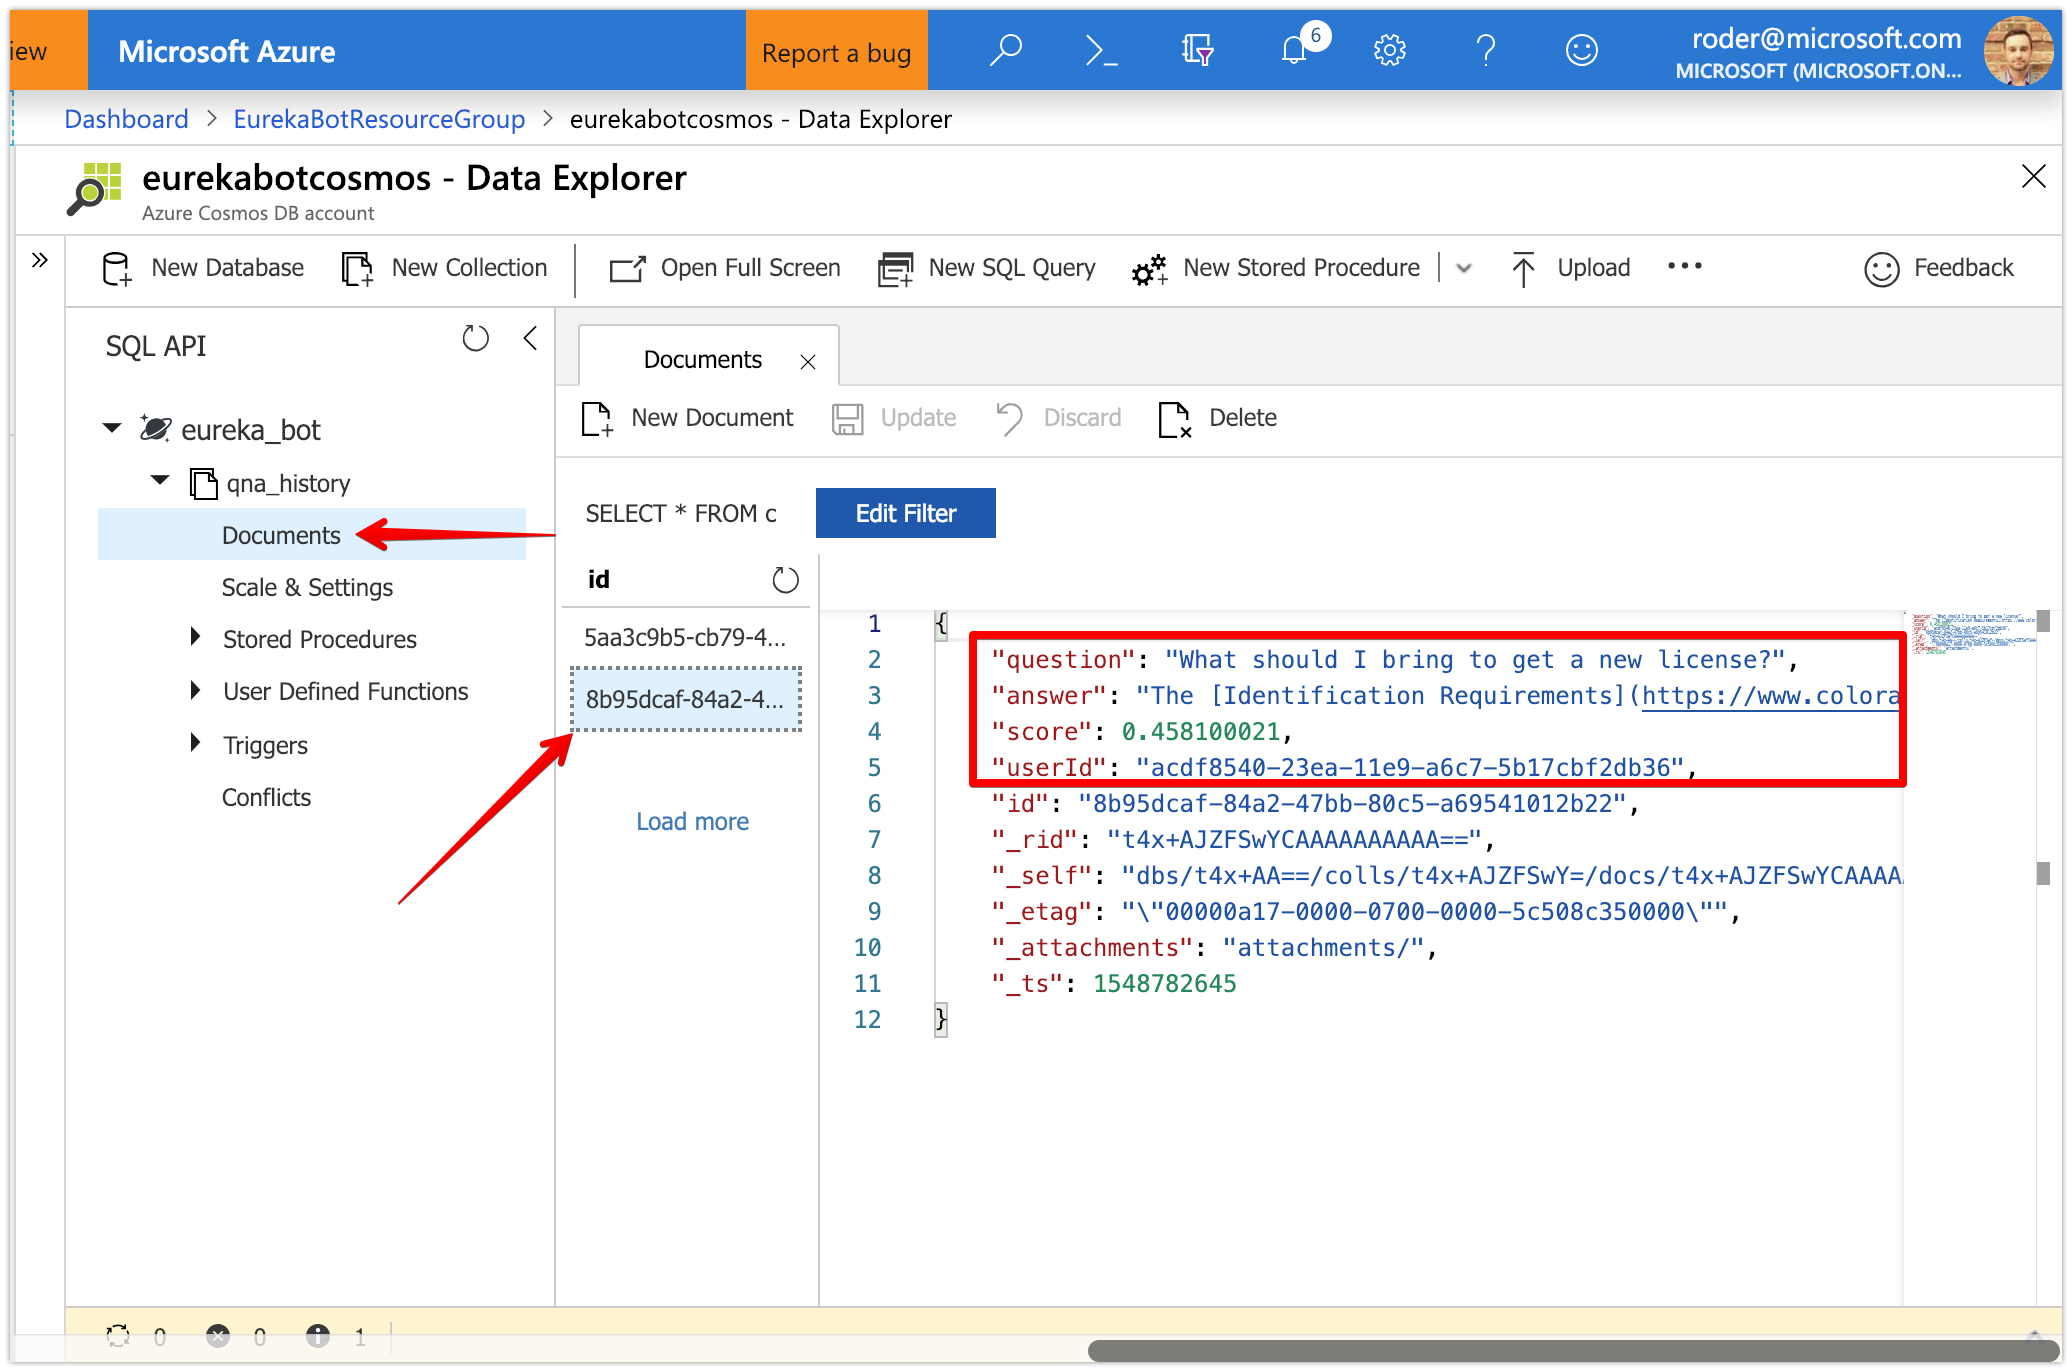
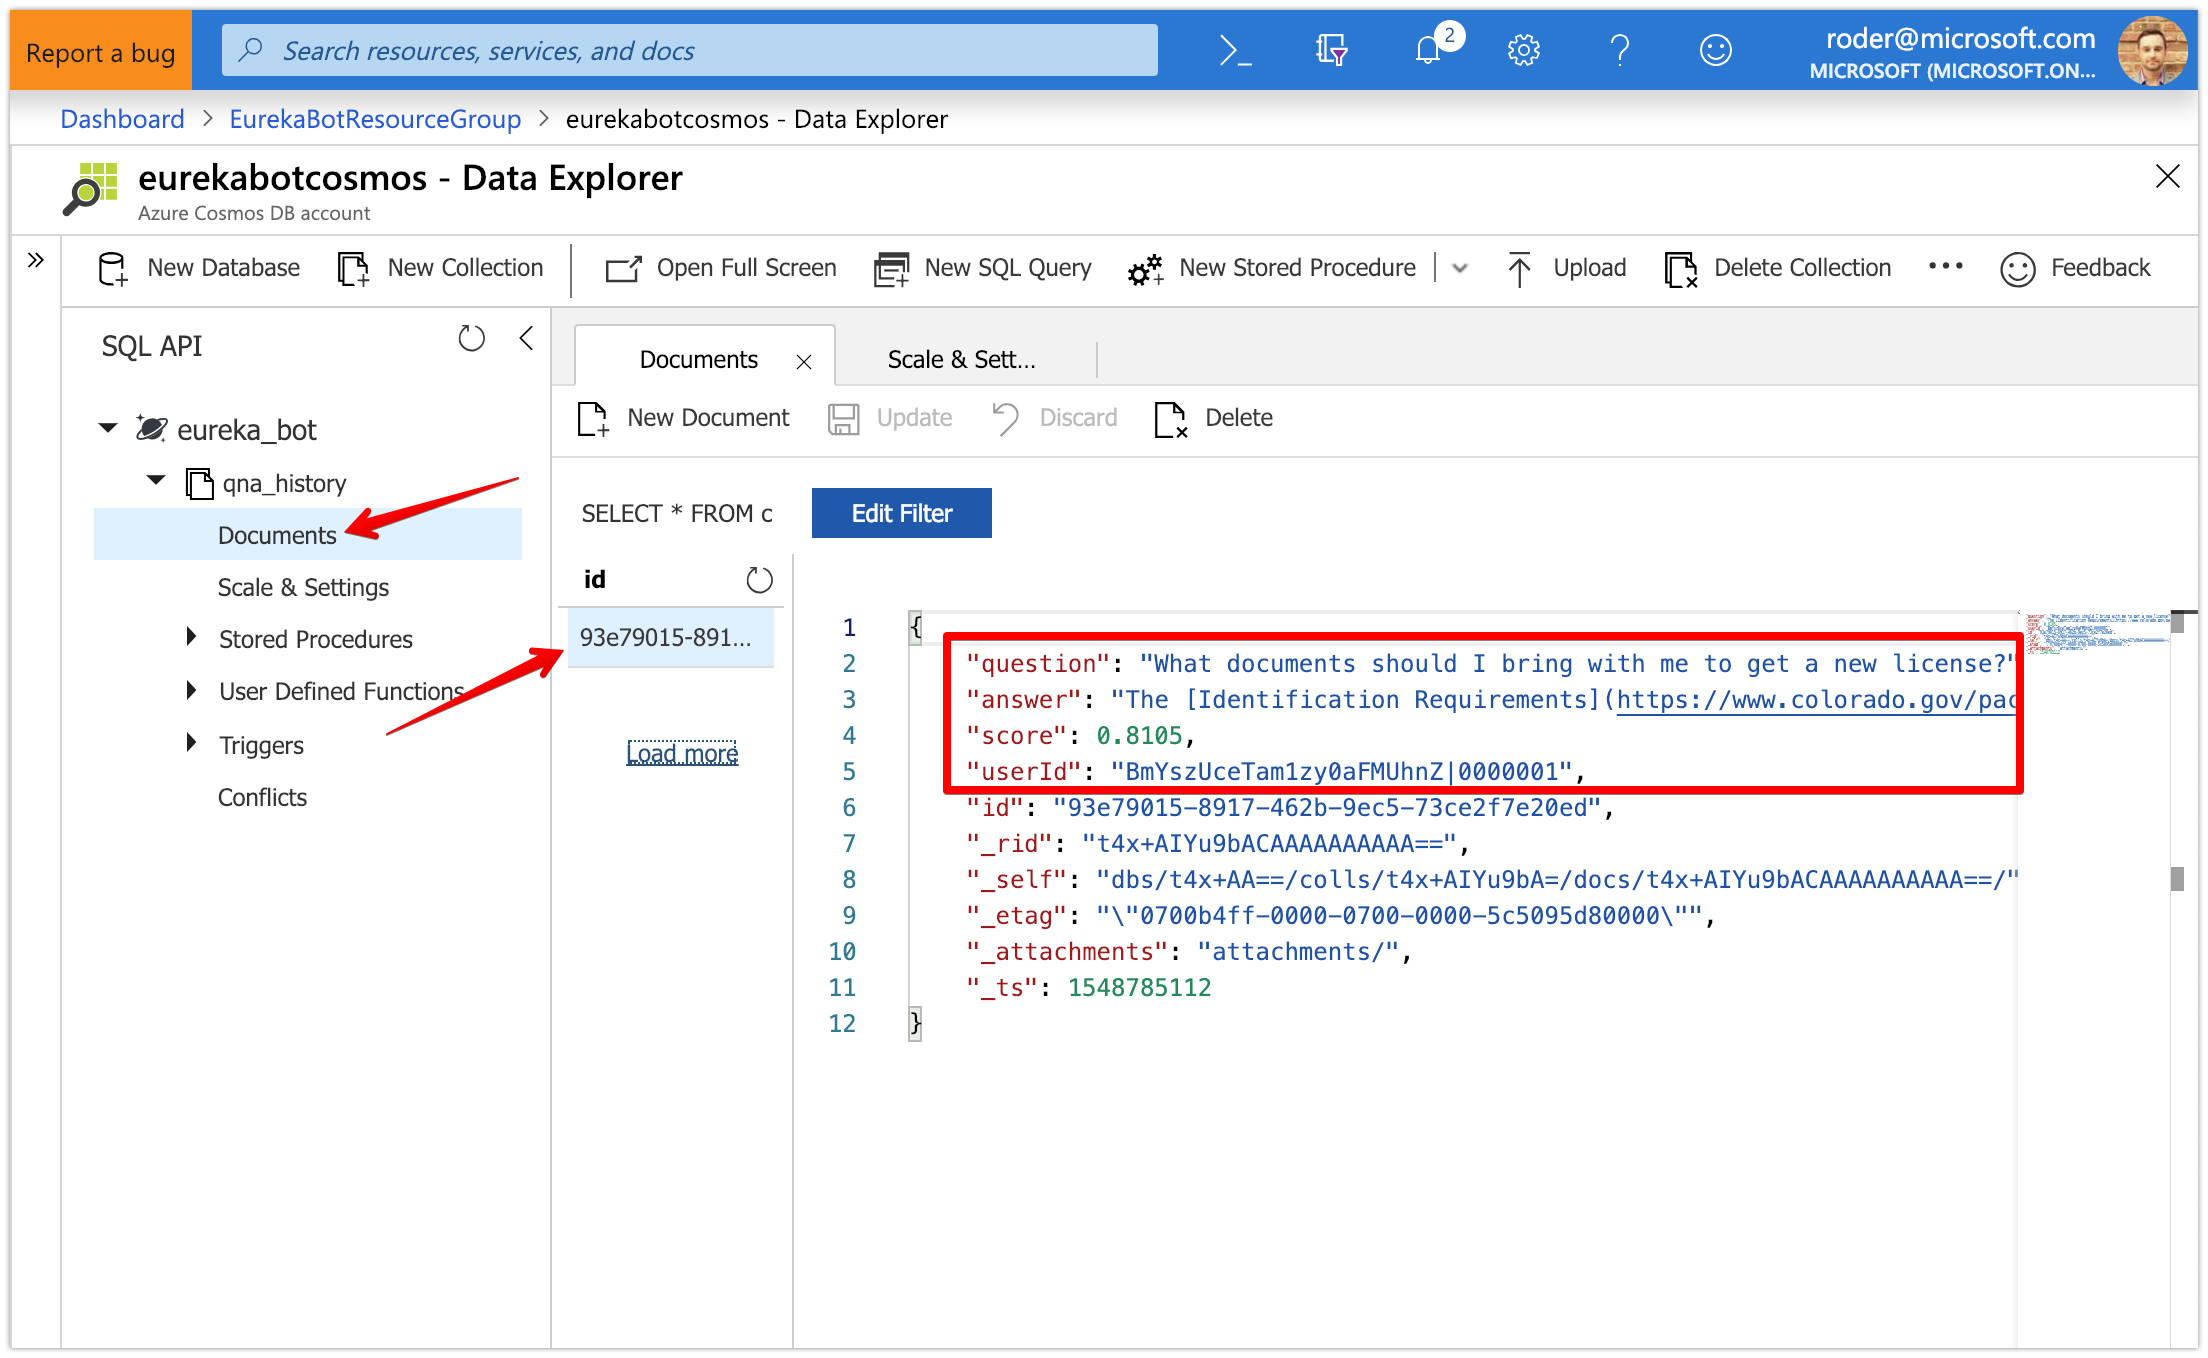
guide updates

diff --git a/guides/conversation_logger.md b/guides/conversation_logger.md
@@ -3,7 +3,7 @@
 ### This guide will help you get going with sending the user a greeting card. You will also learn how to integrate custom middleware to log conversations to a Cosmos database.
 
 When you've completed this tutorial, you should expect to see this:
-<br/><img src="../screens/new_qna_maker_serviwce.jpg" /><br/><br/>
+<br/><img src="../screens/cosmos_data_explorer_confirm_save.jpg" /><br/><br/>
 
 ### What is Cosmos DB?
 
@@ -13,7 +13,39 @@ Azure Cosmos DB provides native support for NoSQL and OSS APIs including MongoDB
 
 <br />
 
-## Section 1: Create the Cosmos DB account in Azure Portal
+### Section 1: Add in `ConversationLogger` Middleware
+
+Middleware is a new concept in Bot Framework v4 and is aimed at making it very easy to splice intelligent layers into your bot. Middleware will will execute in the order added in the `Startup.cs` file both up and down the middleware stack. Examples of middleware are translation, spell-check, logging and natural language entity extraction. For additional information on how middleware works, check out the [docs here](https://docs.microsoft.com/en-us/azure/bot-service/bot-builder-concept-middleware).
+
+1. Let's get the conversation logger to write history to the console first by adding [this file](https://gist.github.com/rob-derosa/6fe64f426a785eca41a00e461ab4652e) to our project in a new folder called `Middleware`
+
+1. Open up the file `EurekaBot\Middleware\ConversationLogger.cs` and read the comments to understand the flow of how middleware will process the incoming message from the user as well as the outgoing message from the bot
+
+1. Now that we have middleware in our project, we need to add it to the startup process - open the `Startup.cs` file and add the following line of code just after setting the `options.OnTurnError` property delegate, within the `services.AddBot` delegate body:
+	```
+	options.Middleware.Add(new ConversationLogger(botConfig));
+	```
+
+1. Open the `Bot.cs` file and replace the contents of the `if (results != null && results.Any())` statement within the `LookupAnswerInKowledgeBase` method with the following code:
+	```
+	var result = results.First();
+	var reply = turnContext.Activity.CreateReply(result.Answer);
+
+	//We want to track tag the score too so Middleware has access to it
+	reply.Properties.Add("qna_score", result.Score);
+
+	//Return the first result (you could also ensure the result.Score is of a minimum threshold)
+	await turnContext.SendActivityAsync(reply);
+	```
+
+	Instead of just replying with a string, we're creating an `Activity` for our reply - it will hold the string response but can also hold additional metadata that we can use to log the __score__ of the answer returned by QnA Maker and read it out in our middleware
+
+1. Hit `F5` to run the debugger locally and launch the Bot Framework Emulator to test out the new logging feature you just added - inspect your console output to see something similar to this:
+<br/><img src="../screens/conversation_logger_console.jpg" width="60%" />
+
+<br/>
+
+### Section 2: Create the Cosmos DB account in Azure Portal
 
 1. Browse to [https://portal.azure.com](https://portal.azure.com) and log in
 
@@ -47,6 +79,85 @@ Azure Cosmos DB provides native support for NoSQL and OSS APIs including MongoDB
 
 <br/>
 
-## Section 2: Add in `ConversationLogger` Middleware
+### Section 3: Modify `ConversationLogger` to log data to Cosmos
 
-1. Start here...
+1. Cosmos DB supports REST API but we'll take advantage of the SDK support by adding the following nuget package:
+	```
+	dotnet add package Microsoft.Azure.DocumentDB
+	```
+
+1. Add the following json to your .bot file anywhere in the `services` node array and replace with your Cosmos DB key and endpoint URI and then save
+	```
+	{
+		"type": "cosmosdb",
+		"collection": "qna_history",
+		"database": "eureka_bot",
+		"key": "<YOUR_COSMOS_KEY>",
+		"endpoint": "<YOUR_COSMOS_URI>"
+	}
+	```
+	note - you can change the name of the collection and database to any value you like
+
+
+1. Add the following private variables into the `ConversationLogger` class and necessary `using` statements
+	```
+	static DocumentClient _cosmosClient;
+	static Uri _collectionLink;
+	```
+
+1. Add the following method to the `ConversationLogger` class - it will be responsible for ensuring we have a Cosmos database, collection and client to work with:
+	```
+	//Ensures the Cosmos database, collection and client are all created and assigned
+	async Task EnsureDatabaseConfigured()
+	{
+		var service = _botConfiguration.Services.FirstOrDefault(s => s.Type == ServiceTypes.CosmosDB) as CosmosDbService;
+
+		if (_cosmosClient == null)
+		{
+			_collectionLink = UriFactory.CreateDocumentCollectionUri(service.Database, service.Collection);
+			_cosmosClient = new DocumentClient(new Uri(service.Endpoint), service.Key, ConnectionPolicy.Default);
+		}
+
+		var db = new Database { Id = service.Database };
+		var collection = new DocumentCollection { Id = service.Collection };
+
+		//Create the database
+		var result = await _cosmosClient.CreateDatabaseIfNotExistsAsync(db);
+
+		if (result.StatusCode == HttpStatusCode.Created || result.StatusCode == HttpStatusCode.OK)
+		{
+			//Create the collection
+			var dbLink = UriFactory.CreateDatabaseUri(service.Database);
+			await _cosmosClient.CreateDocumentCollectionIfNotExistsAsync(dbLink, collection);
+		}
+	}
+	```
+
+1. Add the following line code just above the `foreach (var activity in activities)` in the `OnTurnAsync` method:
+	```
+	//Make sure our Cosmos DB is all ready to go
+	await EnsureDatabaseConfigured();
+	```
+
+1. Finally, replace the body of the `RecordLogEntry` method with the following code:
+	```
+	try
+	{
+		await _cosmosClient.CreateDocumentAsync(_collectionLink, item);
+	}
+	catch (DocumentClientException dce)
+	{
+		Console.WriteLine($"Unable to save to Cosmos: {dce.GetBaseException()}");
+	}
+	```
+
+1. Hit `F5` to run the debugger locally and launch the Bot Framework Emulator and type a question to a known answer
+
+1. Verify the log was saved properly in your Cosmos database and collection by navigating to your Cosmos account in the [Azure Portal](https://portal.azure.com)
+
+1. Click on the __Data Explorer__ section
+
+1. Expand your database and collection, then click on __Documents__ to see the persisted documents and click on the one closest to the top
+
+1. You should see json data that includes the question, answer, score, userId as well as data that Cosmos automatically appends
+<br/><img src="../screens/cosmos_data_explorer_confirm_save.jpg" />

diff --git a/guides/qna_maker_portal.md b/guides/qna_maker_portal.md
@@ -18,7 +18,7 @@ Azure's QnA Maker service makes it easy to import existing knowledge base data (
 
 <br />
 
-## Section 1: Create the QnA Maker Services in Azure Portal
+### Section 1: Create the QnA Maker Services in Azure Portal
 
 1. Browse to [https://portal.azure.com](https://portal.azure.com) and log in
 
@@ -60,7 +60,7 @@ Azure's QnA Maker service makes it easy to import existing knowledge base data (
 	 
 <br/>
 
-## Section 2: Create a Knowledge Base in the QnA Maker Portal
+### Section 2: Create a Knowledge Base in the QnA Maker Portal
 
 1. Browse to [https://qnamaker.ai](https://qnamaker.ai) and log in with the same credentials used in Section 1
 
@@ -89,7 +89,7 @@ Azure's QnA Maker service makes it easy to import existing knowledge base data (
 
 <br/>
 
-## Section 3: Train, Test and Publish the Knowledge Base  
+### Section 3: Train, Test and Publish the Knowledge Base  
 
 1. Before the knowledge base can be used, we need to save and train the model first - click the __Save and Train__ button at the top 
 <br /><img src="../screens/save_and_train_button.jpg" width="80%" />

diff --git a/guides/integrate_qna_maker.md b/guides/integrate_qna_maker.md
@@ -188,4 +188,4 @@ Now that we have a working public endpoint, we can add enable one of the several
 1. Ask a question and verify the appropriate answer is returned by the bot
 <br/><img src="../screens/embedded_web_chat_qna.jpg" />
 
-1. Commit and push your code to your repository to trigger a build and deploy in Azure, then retest against your public endpoint
+1. Commit and push your code to your repository to trigger a build and deploy in Azure, then re-test against your public endpoint
